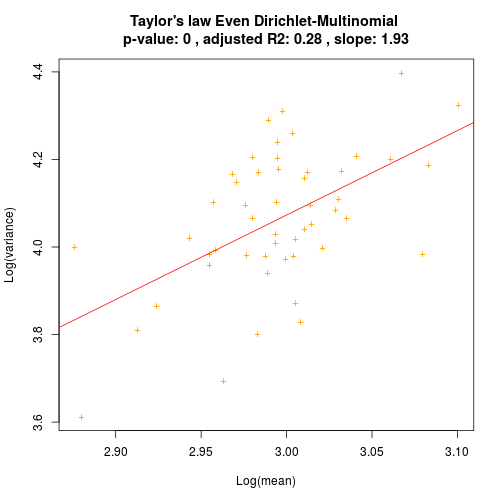
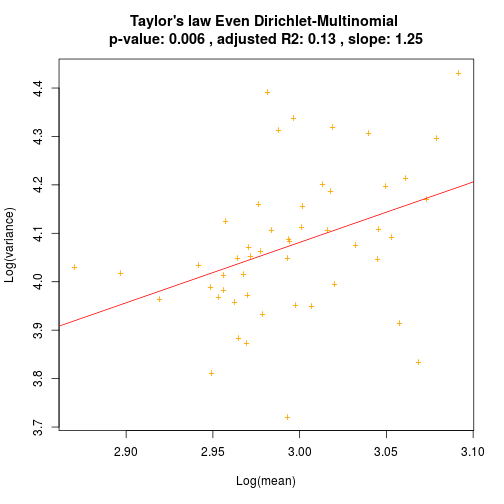
README linked to the vignette now

diff --git a/vignettes/seqtime_tour.md b/vignettes/seqtime_tour.md
@@ -100,7 +100,7 @@ ricker.taylor=taylor(out.ricker, pseudo=0.0001, col="green", type="taylor")
 ```
 
 ```
-## [1] "Adjusted R2: 0.0894328821042024"
+## [1] "Adjusted R2: 0.0966239532658427"
 ```
 
 ![plot of chunk unnamed-chunk-6](figure_seqtime_tour/unnamed-chunk-6-1.png)
@@ -146,7 +146,7 @@ soi.taylor=taylor(out.soi, pseudo=0.0001, col="blue", type="taylor")
 ```
 
 ```
-## [1] "Adjusted R2: 0.944993569638869"
+## [1] "Adjusted R2: 0.936739696709805"
 ```
 
 ![plot of chunk unnamed-chunk-9](figure_seqtime_tour/unnamed-chunk-9-1.png)
@@ -160,11 +160,11 @@ soi.noise=identifyNoisetypes(out.soi,abund.threshold=0)
 
 ```
 ## [1] "Number of taxa below the abundance threshold:  1"
-## [1] "Number of taxa with non-significant power spectrum laws:  12"
-## [1] "Number of taxa with non-classified power spectrum:  25"
+## [1] "Number of taxa with non-significant power spectrum laws:  10"
+## [1] "Number of taxa with non-classified power spectrum:  23"
 ## [1] "Number of taxa with white noise:  0"
-## [1] "Number of taxa with pink noise:  12"
-## [1] "Number of taxa with brown noise:  0"
+## [1] "Number of taxa with pink noise:  13"
+## [1] "Number of taxa with brown noise:  3"
 ## [1] "Number of taxa with black noise:  0"
 ```
 
@@ -192,7 +192,7 @@ hubbell.taylor=taylor(out.hubbell, pseudo=0.0001, col="blue", type="taylor")
 ```
 
 ```
-## [1] "Adjusted R2: 0.801515418306707"
+## [1] "Adjusted R2: 0.930394571102972"
 ```
 
 ![plot of chunk unnamed-chunk-12](figure_seqtime_tour/unnamed-chunk-12-1.png)
@@ -205,12 +205,12 @@ hubbell.noise=identifyNoisetypes(out.hubbell,abund.threshold=0)
 ```
 
 ```
-## [1] "Number of taxa below the abundance threshold:  0"
+## [1] "Number of taxa below the abundance threshold:  1"
 ## [1] "Number of taxa with non-significant power spectrum laws:  0"
-## [1] "Number of taxa with non-classified power spectrum:  31"
+## [1] "Number of taxa with non-classified power spectrum:  25"
 ## [1] "Number of taxa with white noise:  0"
 ## [1] "Number of taxa with pink noise:  0"
-## [1] "Number of taxa with brown noise:  19"
+## [1] "Number of taxa with brown noise:  24"
 ## [1] "Number of taxa with black noise:  0"
 ```
 
@@ -240,7 +240,7 @@ dm.uneven.taylor=taylor(dm.uneven, pseudo=0.0001, col="orange", type="taylor", h
 ```
 
 ```
-## [1] "Adjusted R2: 0.973665097700279"
+## [1] "Adjusted R2: 0.977863431074107"
 ```
 
 ![plot of chunk unnamed-chunk-15](figure_seqtime_tour/unnamed-chunk-15-1.png)
@@ -254,8 +254,8 @@ dm.uneven.noise=identifyNoisetypes(dm.uneven,abund.threshold=0)
 
 ```
 ## [1] "Number of taxa below the abundance threshold:  0"
-## [1] "Number of taxa with non-significant power spectrum laws:  44"
-## [1] "Number of taxa with non-classified power spectrum:  6"
+## [1] "Number of taxa with non-significant power spectrum laws:  46"
+## [1] "Number of taxa with non-classified power spectrum:  4"
 ## [1] "Number of taxa with white noise:  0"
 ## [1] "Number of taxa with pink noise:  0"
 ## [1] "Number of taxa with brown noise:  0"
@@ -277,8 +277,12 @@ dm.even.taylor=taylor(dm.even, pseudo=0.0001, col="orange", type="taylor", heade
 ```
 
 ```
-## [1] "Adjusted R2: 0.28006338913238"
+## [1] "Adjusted R2: 0.13042010400971"
 ```
 
 ![plot of chunk unnamed-chunk-17](figure_seqtime_tour/unnamed-chunk-17-1.png)
 
+
+## Noise simulation
+
+For further examples on simulating noise, see [noise_simulations.md](noise_simulations.md).

diff --git a/vignettes/noise_simulations.md b/vignettes/noise_simulations.md
@@ -50,10 +50,10 @@ Hwhite <- hurstexp(w@left, d = 128)
 ```
 
 ```
-## Simple R/S Hurst estimation:         0.494849 
-## Corrected R over S Hurst exponent:   0.5215483 
-## Empirical Hurst exponent:            0.5319811 
-## Corrected empirical Hurst exponent:  0.5168634 
+## Simple R/S Hurst estimation:         0.4938473 
+## Corrected R over S Hurst exponent:   0.5059308 
+## Empirical Hurst exponent:            0.4945896 
+## Corrected empirical Hurst exponent:  0.4796675 
 ## Theoretical Hurst exponent:          0.5151584
 ```
 
@@ -62,10 +62,10 @@ Hbrown <- hurstexp(b, d = 128)
 ```
 
 ```
-## Simple R/S Hurst estimation:         0.8877176 
-## Corrected R over S Hurst exponent:   0.9905181 
-## Empirical Hurst exponent:            1.002012 
-## Corrected empirical Hurst exponent:  0.9980991 
+## Simple R/S Hurst estimation:         0.9172282 
+## Corrected R over S Hurst exponent:   1.007118 
+## Empirical Hurst exponent:            0.9977148 
+## Corrected empirical Hurst exponent:  0.9937812 
 ## Theoretical Hurst exponent:          0.5151584
 ```
 
@@ -74,10 +74,10 @@ Hpink <- hurstexp(p@left, d = 128)
 ```
 
 ```
-## Simple R/S Hurst estimation:         0.7891961 
-## Corrected R over S Hurst exponent:   0.8887708 
-## Empirical Hurst exponent:            0.9097109 
-## Corrected empirical Hurst exponent:  0.903714 
+## Simple R/S Hurst estimation:         0.788127 
+## Corrected R over S Hurst exponent:   0.8799208 
+## Empirical Hurst exponent:            0.907866 
+## Corrected empirical Hurst exponent:  0.9018946 
 ## Theoretical Hurst exponent:          0.5151584
 ```
 

diff --git a/README.md b/README.md
@@ -1,8 +1,35 @@
 # seqtime
-Provides functions to analyse sequencing data time series and to simulate community dynamics.
 
-You can install this package using devtools as follows:
+The seqtime R package provides functions to analyse sequencing data time series and to simulate community dynamics.
 
+
+### Installation and use
+
+To install the development version in R, use
+
+```r
 library(devtools)  
 install_github("hallucigenia-sparsa/seqtime")  
 library(seqtime)  
+```
+
+For usage examples, see the package [vignette](https://github.com/hallucigenia-sparsa/seqtime/seqtime_tour.md).
+
+### Contribute
+
+Contributions are very welcome:
+
+  * [Use issue tracker](https://github.com/hallucingenia-sparsa/seqtime/issues) for feedback and bug reports.
+  * [Send pull requests](https://github.com/hallucingenia-sparsa/seqtime/)
+
+
+### Acknowledgements
+
+**Kindly cite this work** as follows: Karoline Faust, Leo Lahti, and others. The seqtime R package 2017. R package version 1.1.1. URL: [https://github.com/hallucigenia-sparsa/seqtime](https://github.com/hallucigenia-sparsa/seqtime)
+
+We are greatful to all [contributors](https://github.com/hallucigenia-sparsa/seqtime/graphs/contributors).
+
+
+
+
+
